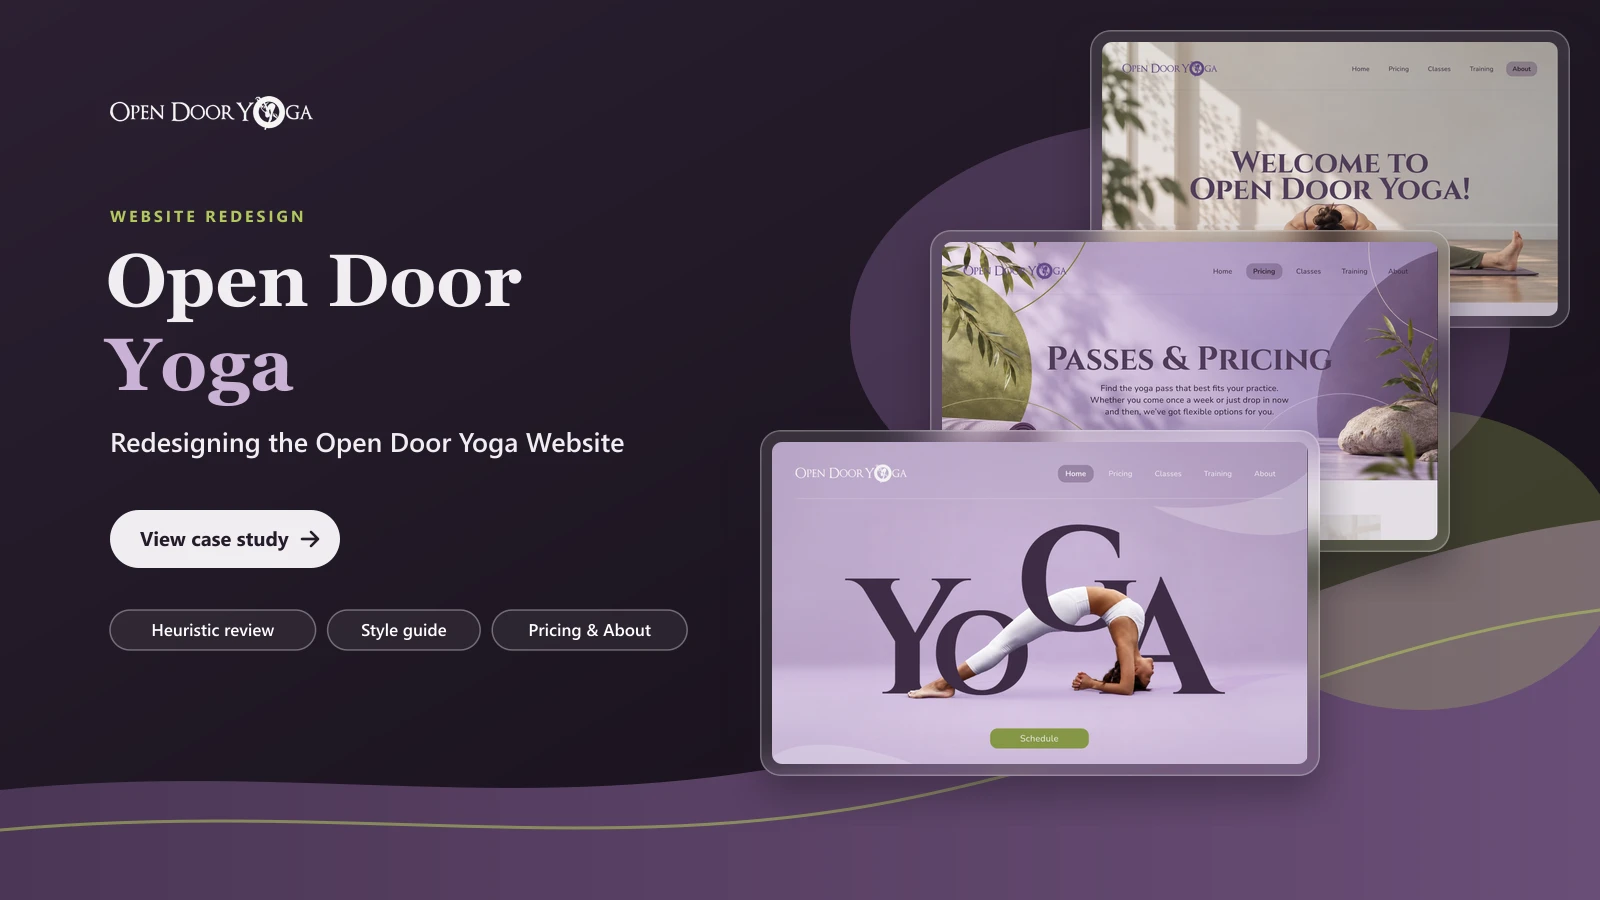
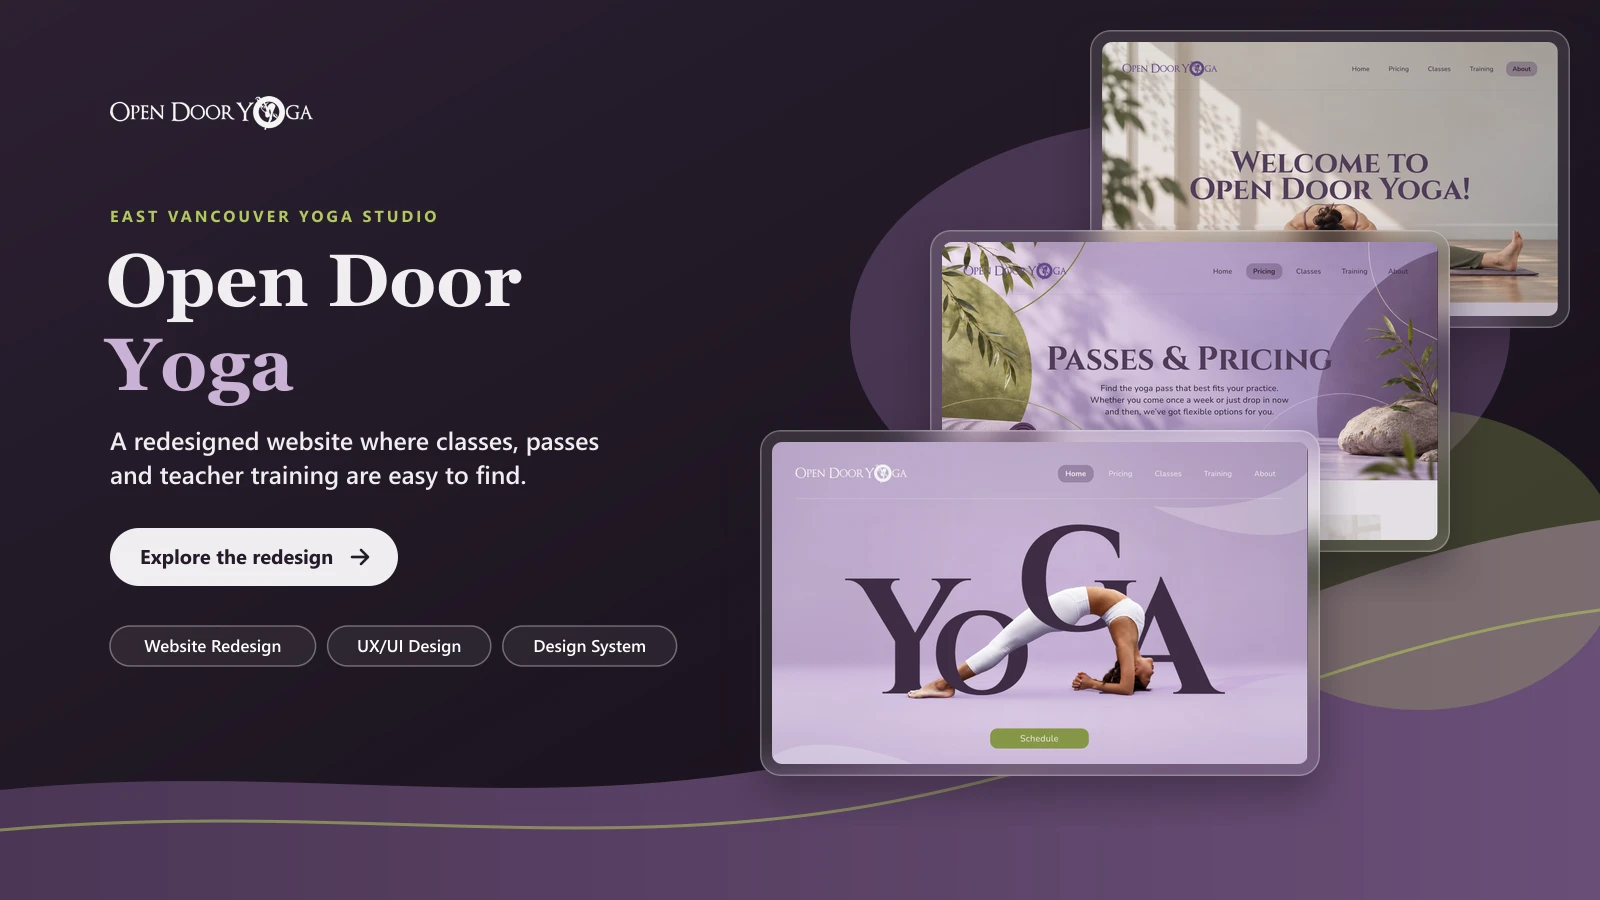
Open Door Yoga cover: copy written like a real website launch

Changed region(s): [[0.0625, 0.4667, 0.4062, 0.6533], [0.0625, 0.6844, 0.4062, 0.7467], [0.0625, 0.2178, 0.2812, 0.2489]]

diff --git a/src/data/projects.ts b/src/data/projects.ts
@@ -1054,8 +1054,8 @@ export const projects: Project[] = glueAll<Project[]>([
     team: '3 designers',
     tools: ['Figma', 'html.to.design'],
     // cover: the dark version built by scripts/build-yoga-cover.mjs ('dark') from the redesigned pages
-    thumbnail: img('yoga-cover-dark', 'Open Door Yoga cover on deep violet: the title, "Redesigning the Open Door Yoga Website" and a View case study button beside the redesigned About, Pricing and Home pages cascading as frosted glass windows (Welcome to Open Door Yoga, Passes & Pricing, then the Home page in front), over a violet wave.', undefined, 1600, 900),
-    hero: img('yoga-cover-dark', 'Open Door Yoga cover on deep violet: the title, "Redesigning the Open Door Yoga Website" and a View case study button beside the redesigned About, Pricing and Home pages cascading as frosted glass windows (Welcome to Open Door Yoga, Passes & Pricing, then the Home page in front), over a violet wave.', undefined, 1600, 900),
+    thumbnail: img('yoga-cover-dark', 'Open Door Yoga cover on deep violet: the studio name, "A redesigned website where classes, passes and teacher training are easy to find." and an Explore the redesign button beside the redesigned About, Pricing and Home pages cascading as frosted glass windows (Welcome to Open Door Yoga, Passes & Pricing, then the Home page in front), over a violet wave.', undefined, 1600, 900),
+    hero: img('yoga-cover-dark', 'Open Door Yoga cover on deep violet: the studio name, "A redesigned website where classes, passes and teacher training are easy to find." and an Explore the redesign button beside the redesigned About, Pricing and Home pages cascading as frosted glass windows (Welcome to Open Door Yoga, Passes & Pricing, then the Home page in front), over a violet wave.', undefined, 1600, 900),
     theme: { accent: '#6A4E77', ink: '#2E2E2E', surface: '#F0EDF1' },
     tldr: [
       { label: 'Problem', text: 'A heuristic review of the studio’s site found prices, schedules and key details hard to find and scan.' },
